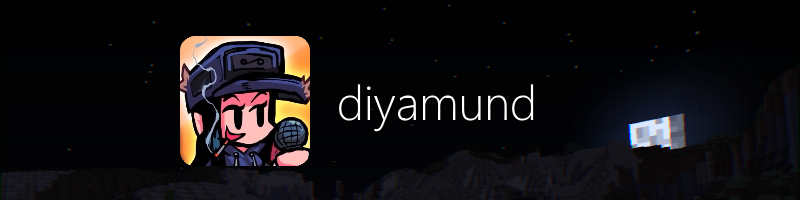
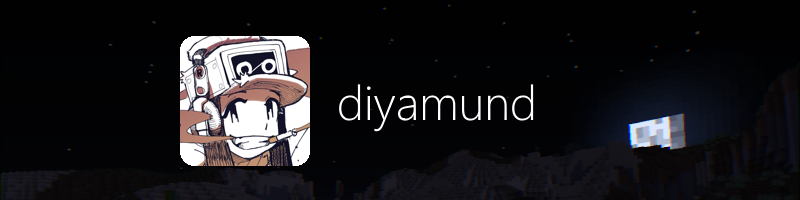
testing footer changes, updated pfp

Changed region(s): [[0.2188, 0.18, 0.4062, 0.84]]

diff --git a/css/main.css b/css/main.css
@@ -67,6 +67,8 @@ body {
 #footer {
     padding: 10px 10px;
     margin-top: 5px;
+    position: fixed;
+    bottom: 0;
 }
 
 #footer-links {
